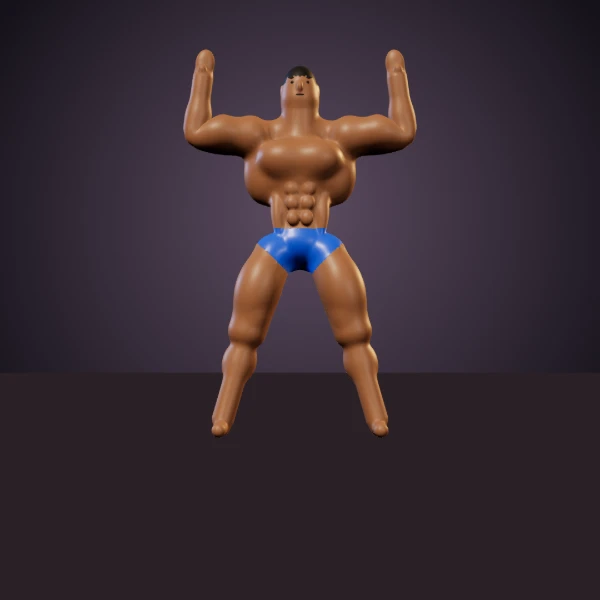
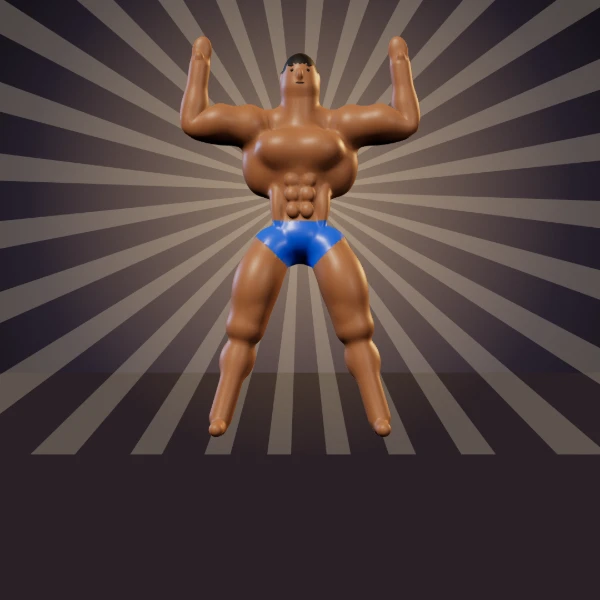
肉体ピング: サムネを決めの瞬間（後光と集中線）に
Claude-Session: https://claude.ai/code/session_01SCp8TuTogTDQLjmjv4sZKs

diff --git a/shisaku-i87mixcr/index.html b/shisaku-i87mixcr/index.html
@@ -3,7 +3,7 @@
 <head>
 <meta charset="UTF-8">
 <meta name="robots" content="noindex,nofollow">
-<meta name="preview-version" content="nikutai-1793748866657">
+<meta name="preview-version" content="nikutai-1793749074529">
 <meta name="viewport" content="width=device-width, initial-scale=1, maximum-scale=1, user-scalable=no">
 <title>【プレビュー】肉体ピング</title>
 <style>
@@ -32,20 +32,20 @@
   <button id="start" type="button">START</button>
   <button id="share-button" type="button" aria-label="Xでシェア" hidden></button>
 </div></div>
-<script src="../games/start.js?v=nikutai-1793748866657"></script>
-<script src="../games/view.js?v=nikutai-1793748866657"></script>
-<script src="../games/audio.js?v=nikutai-1793748866657"></script>
-<script src="../games/lang.js?v=nikutai-1793748866657"></script>   <!-- 日本語以外のブラウザでは英語 -->
-<script src="../games/share.js?v=nikutai-1793748866657"></script>
-<script src="../games/result-actions.js?v=nikutai-1793748866657"></script>
-<script src="../games/action-icons.js?v=nikutai-1793748866657"></script>
-<script src="../games/celebrate.js?v=nikutai-1793748866657"></script>
-<script src="../games/pad.js?v=nikutai-1793748866657"></script>   <!-- ジョイパッドと、絵の外のタップ -->
-<script src="../games/random-bowling/vendor/three.min.js?v=nikutai-1793748866657"></script>
-<script src="../games/three-base.js?v=nikutai-1793748866657"></script>
-<script src="gltf-loader.js?v=nikutai-1793748866657"></script>
-<script src="macho-glb.js?v=nikutai-1793748866657"></script>
-<script src="scene3d.js?v=nikutai-1793748866657"></script>
+<script src="../games/start.js?v=nikutai-1793749074529"></script>
+<script src="../games/view.js?v=nikutai-1793749074529"></script>
+<script src="../games/audio.js?v=nikutai-1793749074529"></script>
+<script src="../games/lang.js?v=nikutai-1793749074529"></script>   <!-- 日本語以外のブラウザでは英語 -->
+<script src="../games/share.js?v=nikutai-1793749074529"></script>
+<script src="../games/result-actions.js?v=nikutai-1793749074529"></script>
+<script src="../games/action-icons.js?v=nikutai-1793749074529"></script>
+<script src="../games/celebrate.js?v=nikutai-1793749074529"></script>
+<script src="../games/pad.js?v=nikutai-1793749074529"></script>   <!-- ジョイパッドと、絵の外のタップ -->
+<script src="../games/random-bowling/vendor/three.min.js?v=nikutai-1793749074529"></script>
+<script src="../games/three-base.js?v=nikutai-1793749074529"></script>
+<script src="gltf-loader.js?v=nikutai-1793749074529"></script>
+<script src="macho-glb.js?v=nikutai-1793749074529"></script>
+<script src="scene3d.js?v=nikutai-1793749074529"></script>
 <script>
 /* 肉体ピング
 
@@ -352,6 +352,7 @@
     if (mini) mini.step(dt, W, H);
     if (pi >= 0 && pi !== hitIdx && pt - pi * step >= 0) { hitIdx = pi; jaan(pi); flex = 1; impact = 1; }
     impact = Math.max(0, impact - dt * 1.8);
+    if (thumbFx) { impact = 0.7; flex = 1; }   /* サムネは決めの瞬間で止める */
     var goal = pi >= 0 ? KANA[words[wi][pi]].pose : (hold >= 0 && state === S.PLAY && wi < NW ? KANA[words[wi][hold]].pose : REST);
     if (showK) goal = KANA[showK].pose;
     if (gallery >= 0) {
@@ -693,8 +694,8 @@
   };
 
   /* サムネ撮影用：UIを消してポーズを1つ見せる */
-  window.__thumbnail = async function (o) { window.__probe.hideUI(); showK = o && o.pose || "U"; };
-  var noUI = false;
+  window.__thumbnail = async function (o) { window.__probe.hideUI(); showK = o && o.pose || "U"; thumbFx = true; };
+  var noUI = false, thumbFx = false;
 
   window.__recording = {
     sound: function () { audioOn(); return AC; },
@@ -740,11 +741,11 @@
 /* 制作中の固定リンクでは、F9の録画パネルを使えるようにする */
 if (document.head && !/[?&]recorder-cli=1(?:&|$)/.test(location.search)) {
   var recorderScript = document.createElement("script");
-  recorderScript.src = /^(localhost|127\.0\.0\.1)$/.test(location.hostname) ? "../games/_tools/recorder-ui.js?v=nikutai-1793748866657" : "./recorder-ui.js?v=nikutai-1793748866657";
+  recorderScript.src = /^(localhost|127\.0\.0\.1)$/.test(location.hostname) ? "../games/_tools/recorder-ui.js?v=nikutai-1793749074529" : "./recorder-ui.js?v=nikutai-1793749074529";
   document.head.appendChild(recorderScript);
 }
 </script>
-<script src="./auto-reload.js?v=nikutai-1793748866657"></script>
-<script src="./preview-header.js?v=nikutai-1793748866657"></script>
+<script src="./auto-reload.js?v=nikutai-1793749074529"></script>
+<script src="./preview-header.js?v=nikutai-1793749074529"></script>
 </body>
 </html>

diff --git a/games/nikutai/index.html b/games/nikutai/index.html
@@ -356,6 +356,7 @@
     if (mini) mini.step(dt, W, H);
     if (pi >= 0 && pi !== hitIdx && pt - pi * step >= 0) { hitIdx = pi; jaan(pi); flex = 1; impact = 1; }
     impact = Math.max(0, impact - dt * 1.8);
+    if (thumbFx) { impact = 0.7; flex = 1; }   /* サムネは決めの瞬間で止める */
     var goal = pi >= 0 ? KANA[words[wi][pi]].pose : (hold >= 0 && state === S.PLAY && wi < NW ? KANA[words[wi][hold]].pose : REST);
     if (showK) goal = KANA[showK].pose;
     if (gallery >= 0) {
@@ -697,8 +698,8 @@
   };
 
   /* サムネ撮影用：UIを消してポーズを1つ見せる */
-  window.__thumbnail = async function (o) { window.__probe.hideUI(); showK = o && o.pose || "U"; };
-  var noUI = false;
+  window.__thumbnail = async function (o) { window.__probe.hideUI(); showK = o && o.pose || "U"; thumbFx = true; };
+  var noUI = false, thumbFx = false;
 
   window.__recording = {
     sound: function () { audioOn(); return AC; },
